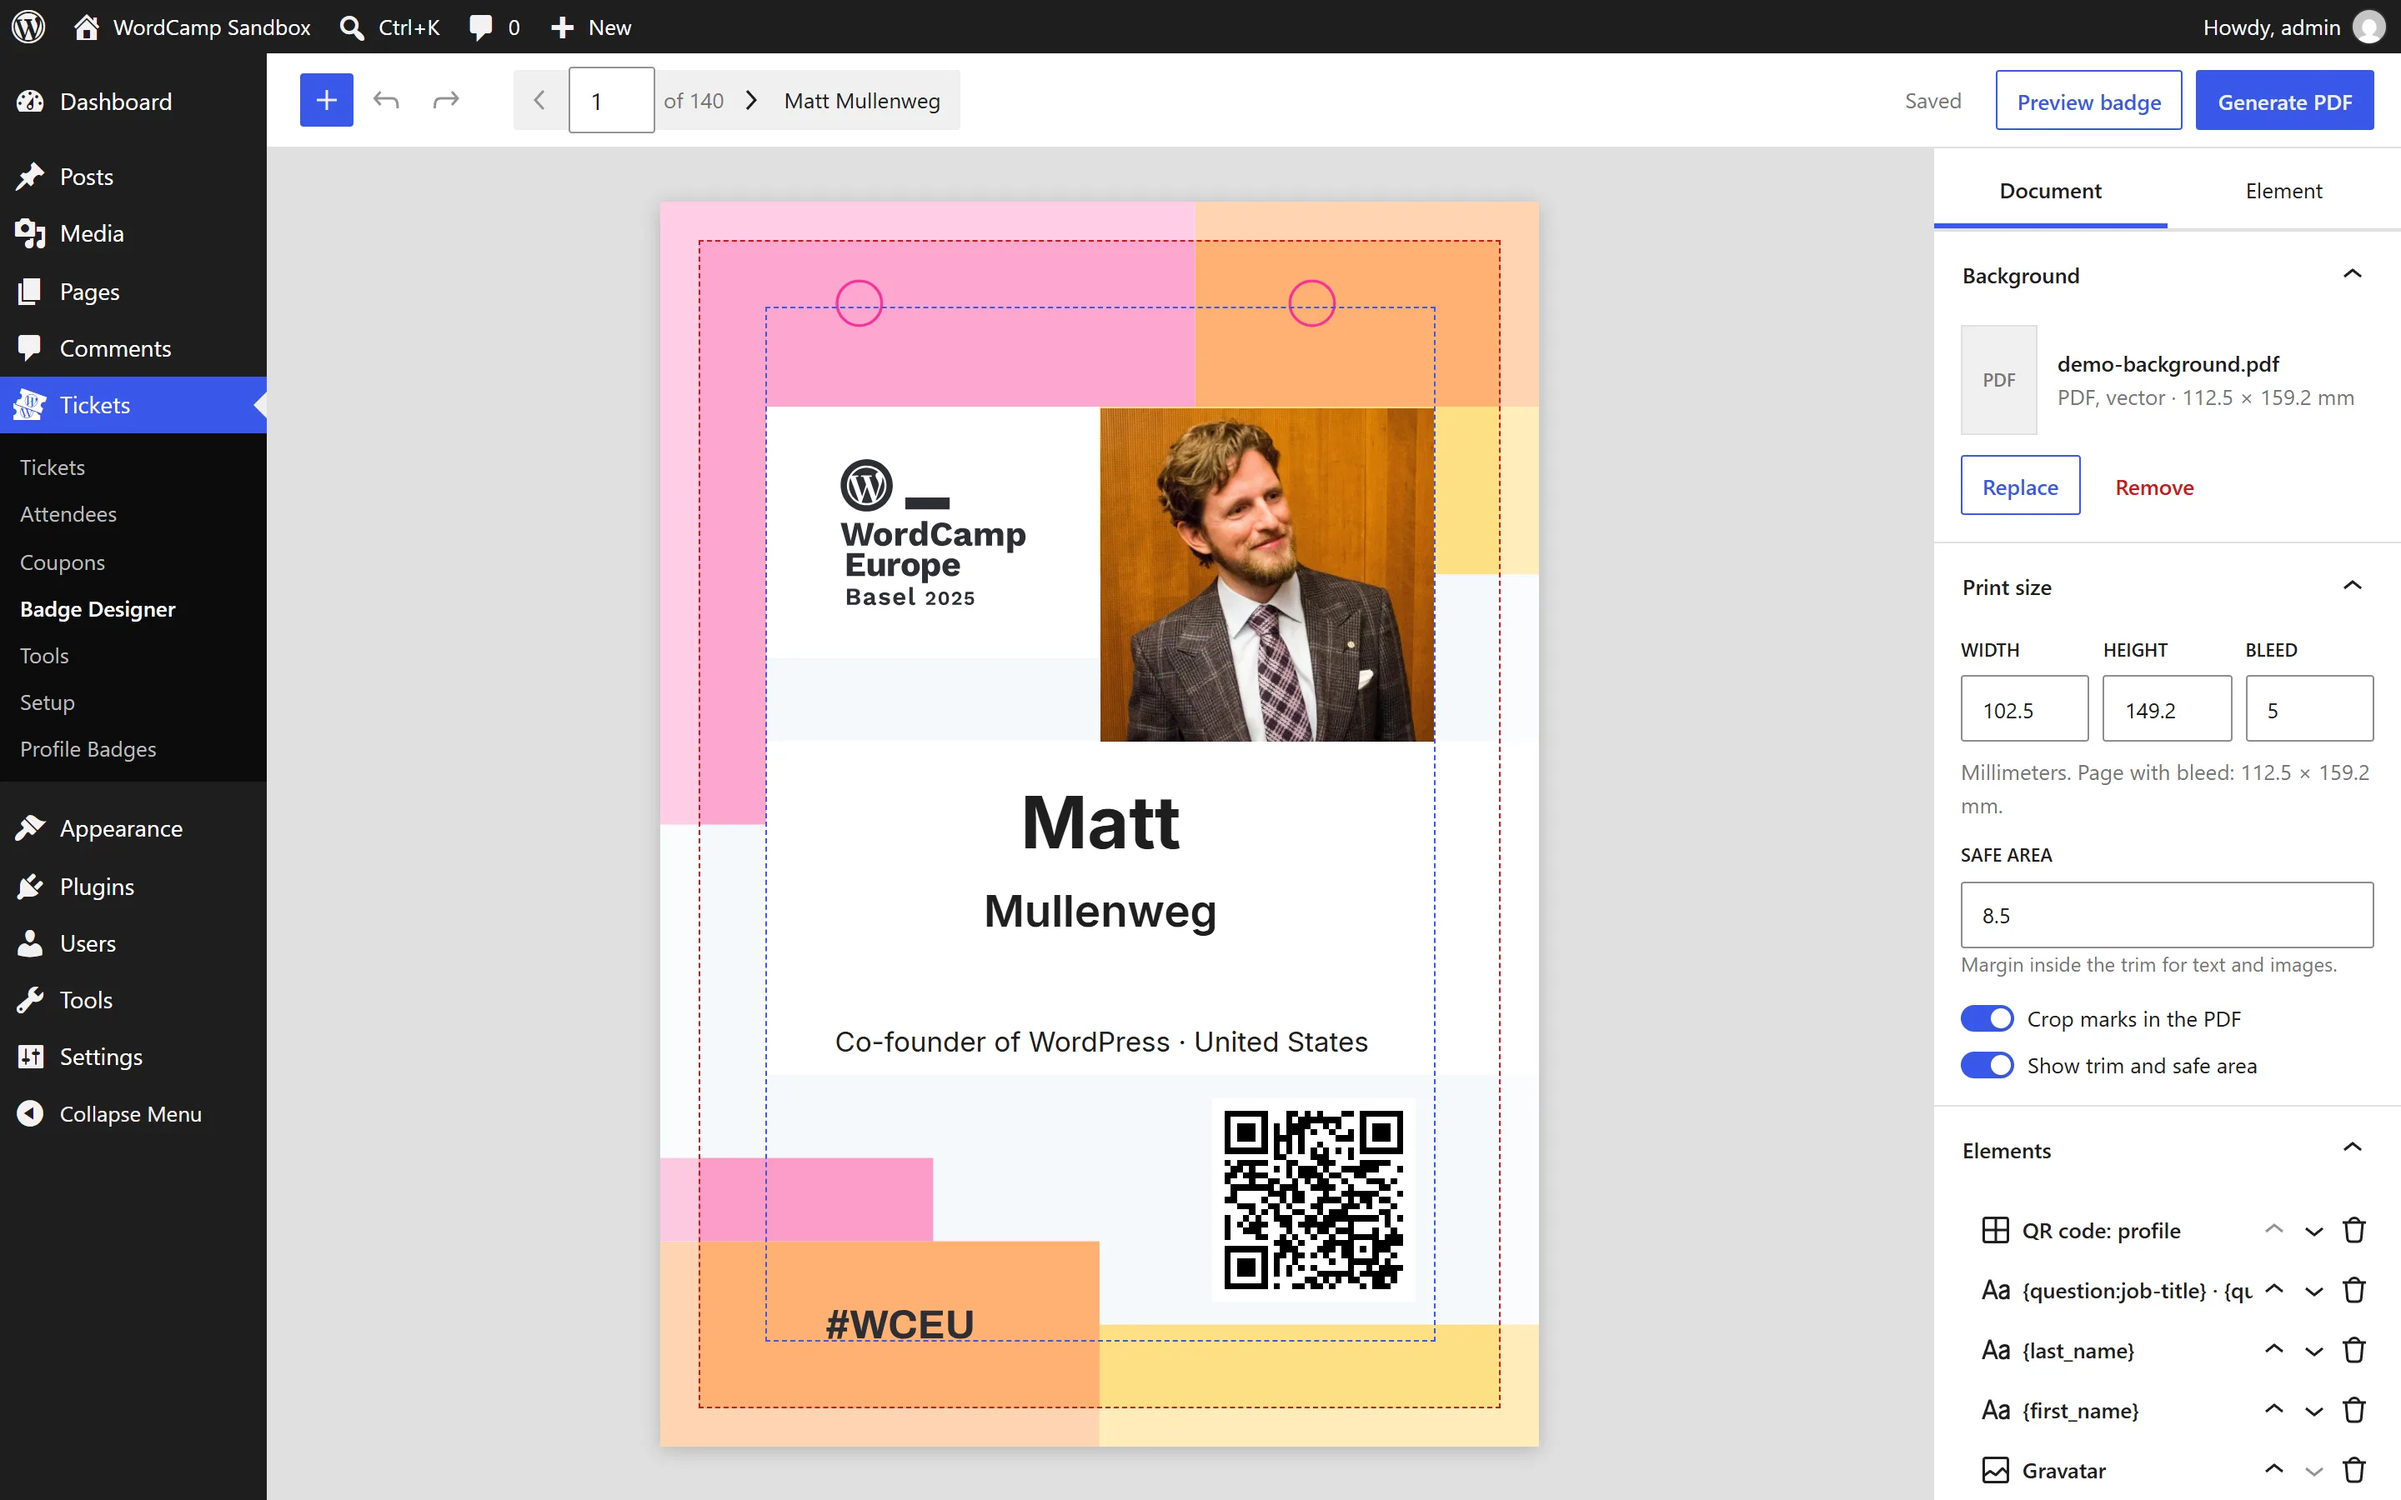
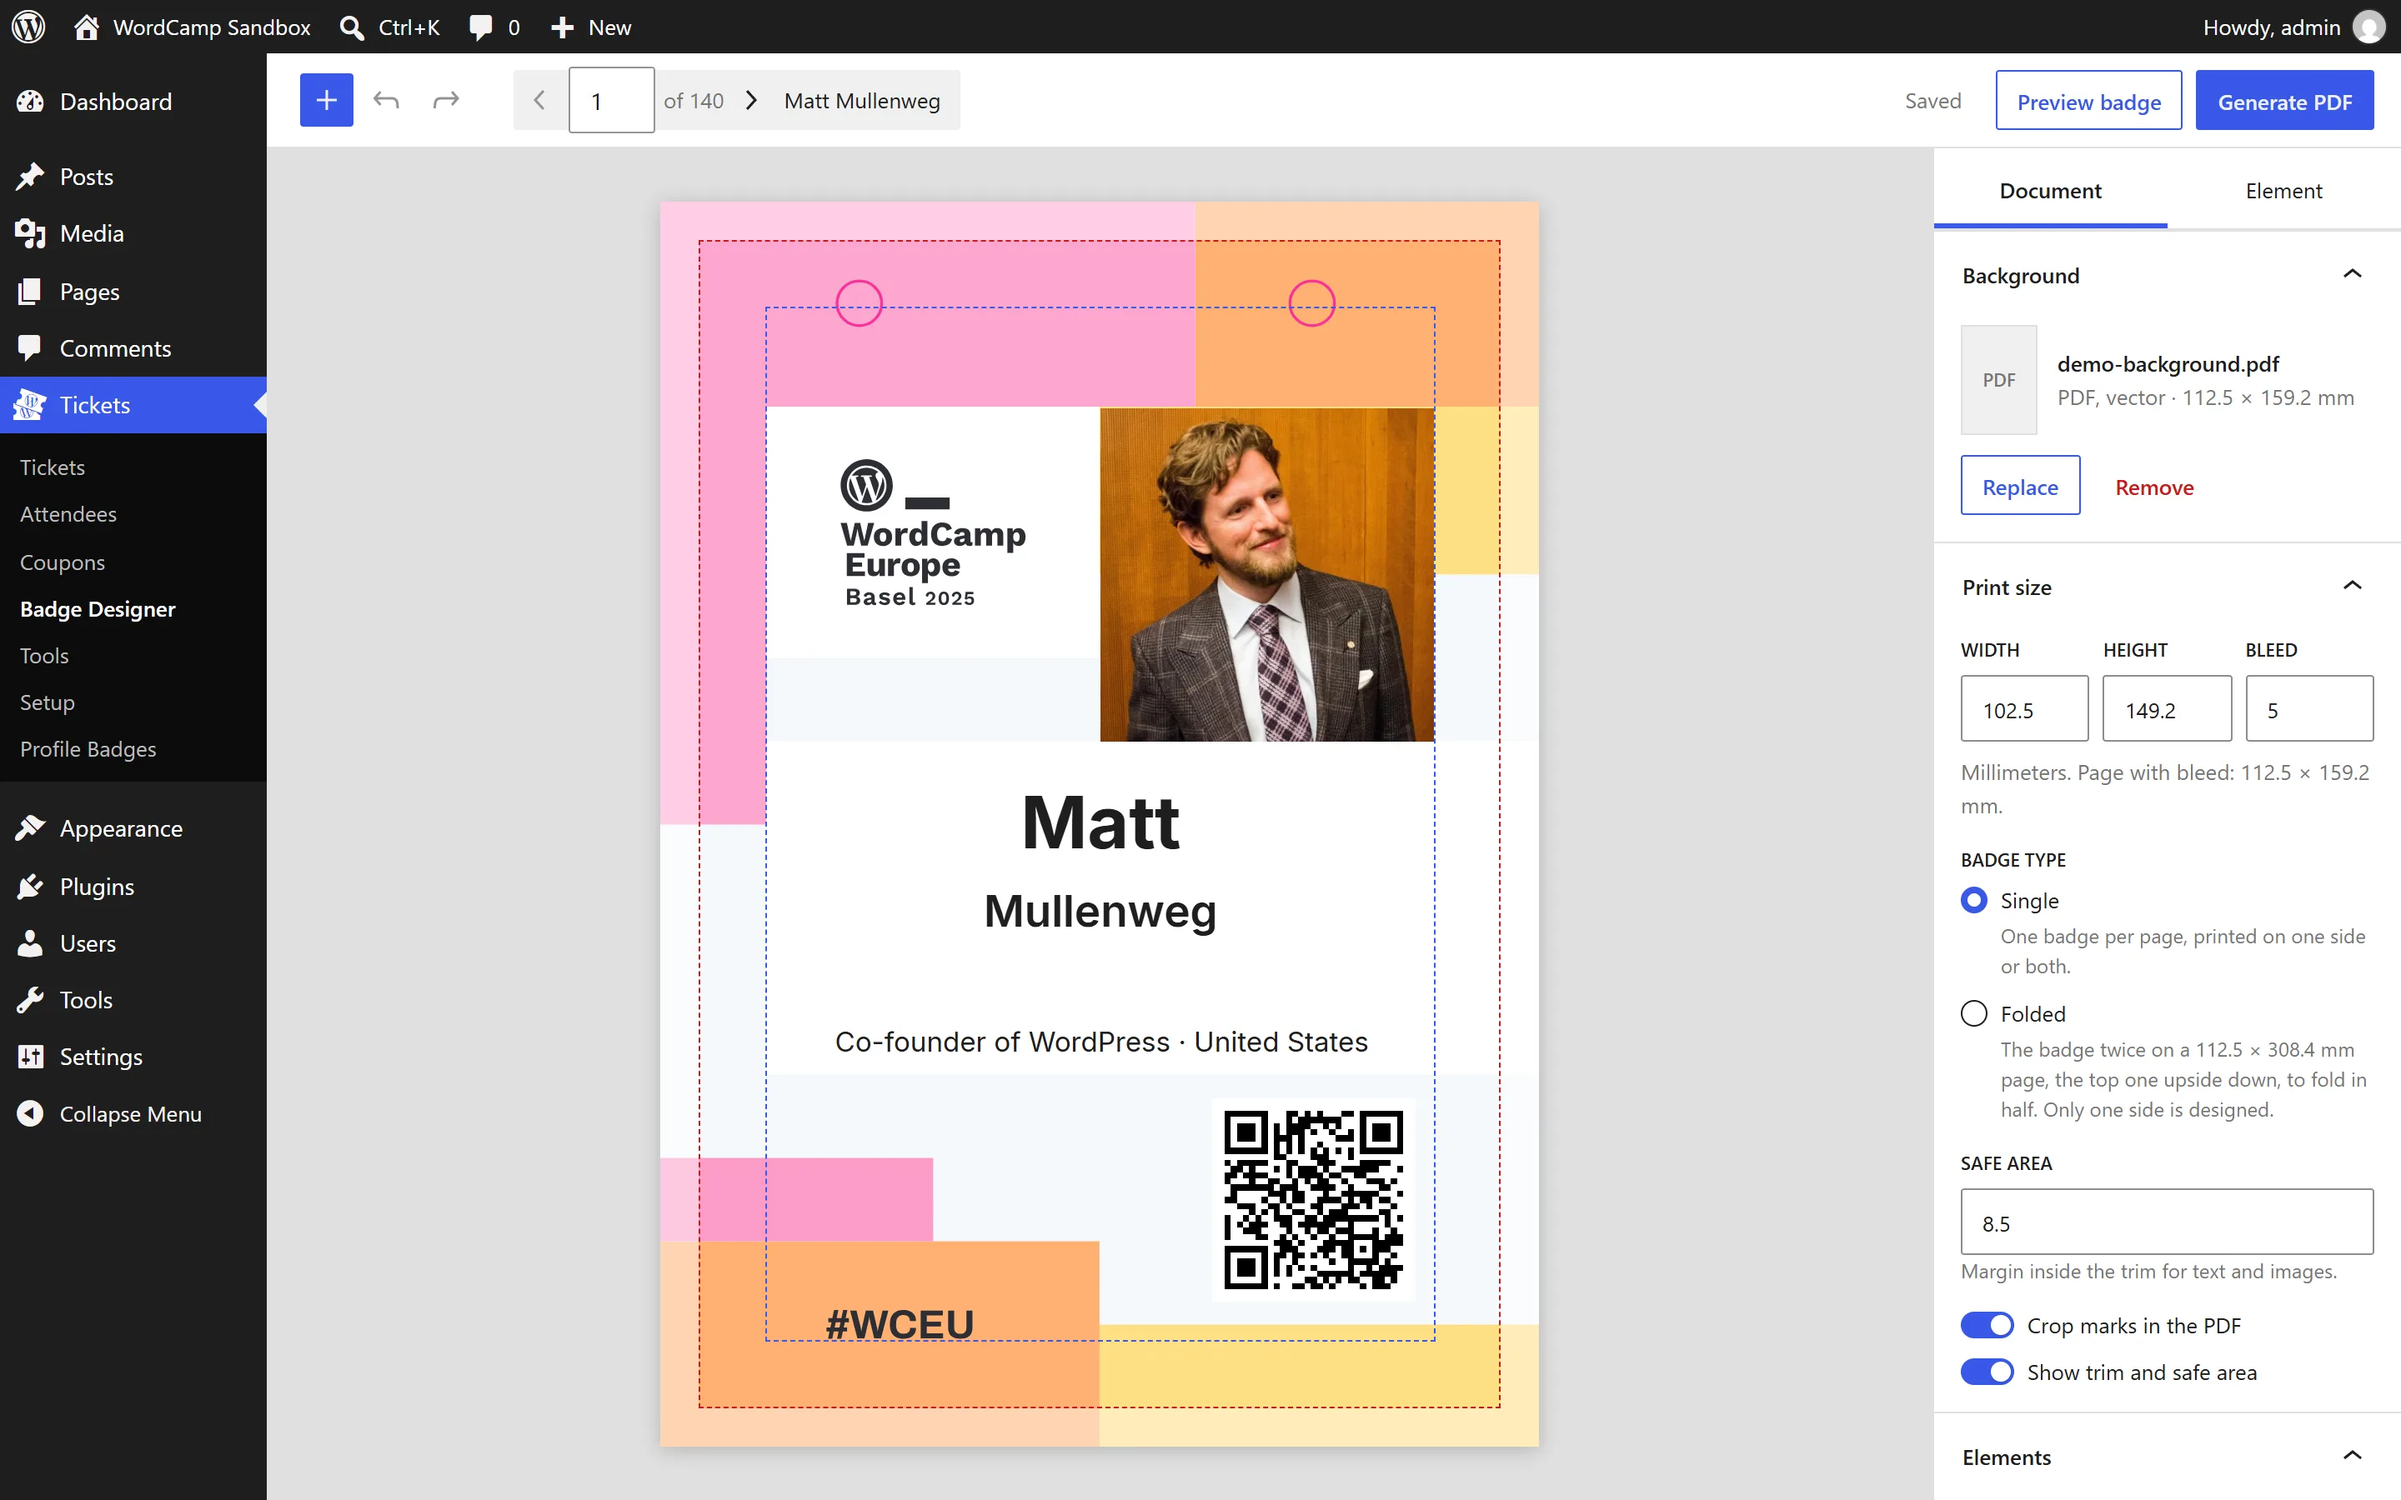
Refresh the guide screenshots and show folded badges
Every screenshot is taken again from a clean WordCamp sandbox with the current editor, under the same file names. Two new ones show the badge type dialog and the preview of a folded badge.

Claude-Session: https://claude.ai/code/session_01QbUEUvFLsvvyf1YHN9NKqP

Changed region(s): [[0.8125, 0.56, 0.9688, 0.7778], [0.8125, 0.8089, 0.9688, 0.9956], [0.9688, 0.8089, 1.0, 0.84]]

diff --git a/guide/index.html b/guide/index.html
@@ -241,6 +241,14 @@ th { background: var(--soft); }
 	<li><strong>Folded:</strong> a sheet twice as tall, folded in half, so the badge reads the same whichever way it turns on the lanyard. Each page of the PDF has your badge twice: the bottom one upright and the top one upside down, joined at the fold. The bleed at the fold is cut away, so the two halves meet exactly on the fold line.</li>
 </ul>
 <p>Make the background for one side, with bleed on all four edges, in both cases. The editor asks for the badge type when you choose the background, and you can change it later in <strong>Print size</strong>.</p>
+<figure class="is-dialog">
+	<a href="images/badge-type-dialog.webp"><img src="images/badge-type-dialog.webp" alt="The Badge size and type dialog: the print size, and the badge type, Single or Folded, with Folded selected." loading="lazy"></a>
+	<figcaption>The badge type is asked every time you choose a background.</figcaption>
+</figure>
+<figure class="is-dialog">
+	<a href="images/preview-folded.webp"><img src="images/preview-folded.webp" alt="The preview of a folded badge: the same badge twice on a tall page, the top one upside down, joined at the dashed fold marks." loading="lazy"></a>
+	<figcaption>A folded badge in the preview: the top half upside down, and dashed fold marks at the fold.</figcaption>
+</figure>
 
 <h3 id="background-format">File format</h3>
 <ul>
@@ -271,7 +279,7 @@ th { background: var(--soft); }
 <h3 id="print-size">Print size</h3>
 <p>Width, height and bleed in millimeters of one side, the badge type (single or folded), the safe area, crop marks (on by default) and whether the guides are shown.</p>
 <figure class="is-narrow">
-	<a href="images/panel-print-size.webp"><img src="images/panel-print-size.webp" alt="The Print size panel: width 102.5, height 149.2, bleed 5, safe area 8.5, and the toggles Crop marks in the PDF and Show trim and safe area." loading="lazy"></a>
+	<a href="images/panel-print-size.webp"><img src="images/panel-print-size.webp" alt="The Print size panel: width 102.5, height 149.2, bleed 5, the badge type Single or Folded, safe area 8.5, and the toggles Crop marks in the PDF and Show trim and safe area." loading="lazy"></a>
 </figure>
 
 <h2 id="elements">Add and arrange elements</h2>
